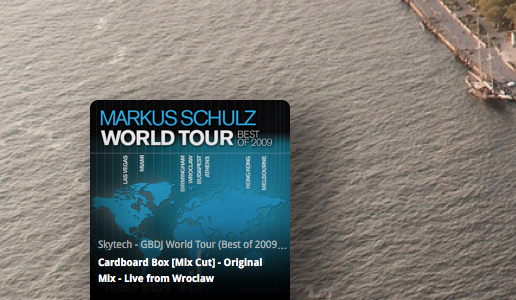
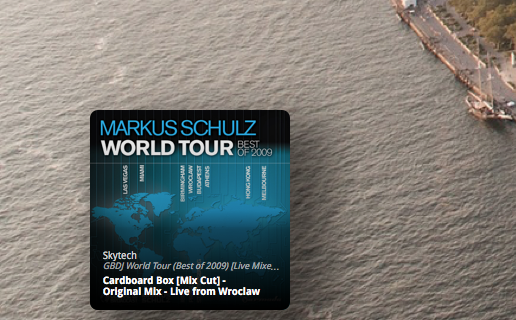
New layout added and set to be the default one (floating), artists and album now in separate lines,  some graphical tweaks, expanded the README to include some simple instructions, plus replaced screenshots to reflect new design changes.

diff --git a/README.md b/README.md
@@ -16,9 +16,13 @@ to control my media player).
 
 ![Truncated & Resized](http://raw.github.com/levifig/now-playing.widget/master/screenshot-2.png)
 
-![Full Desktop Screenshot](http://raw.github.com/levifig/now-playing.widget/master/screenshot-3.png)
+![Alternate/Pinned Layout](http://raw.github.com/levifig/now-playing.widget/master/screenshot-3.png)
 
-[Desktop Screenshot (full size)](http://i.imgur.com/bexUVuR.jpg)
+
+## Usage
+Download [ZIP archive](https://github.com/levifig/now-playing.widget/blob/master/now-playing.widget.zip) to your Übersicht widgets folder (i.e. `~/Library/Application Support/Übersicht/widgets`).
+
+For alternate layout (pinned to the bottom of the screen, as seen in the third screenshot above), edit `now-playing.coffee` and just below `style:`, in line 59, change the `alt-layout` variable value to `true` (default is `false`).
 
 
 ## Caveats
